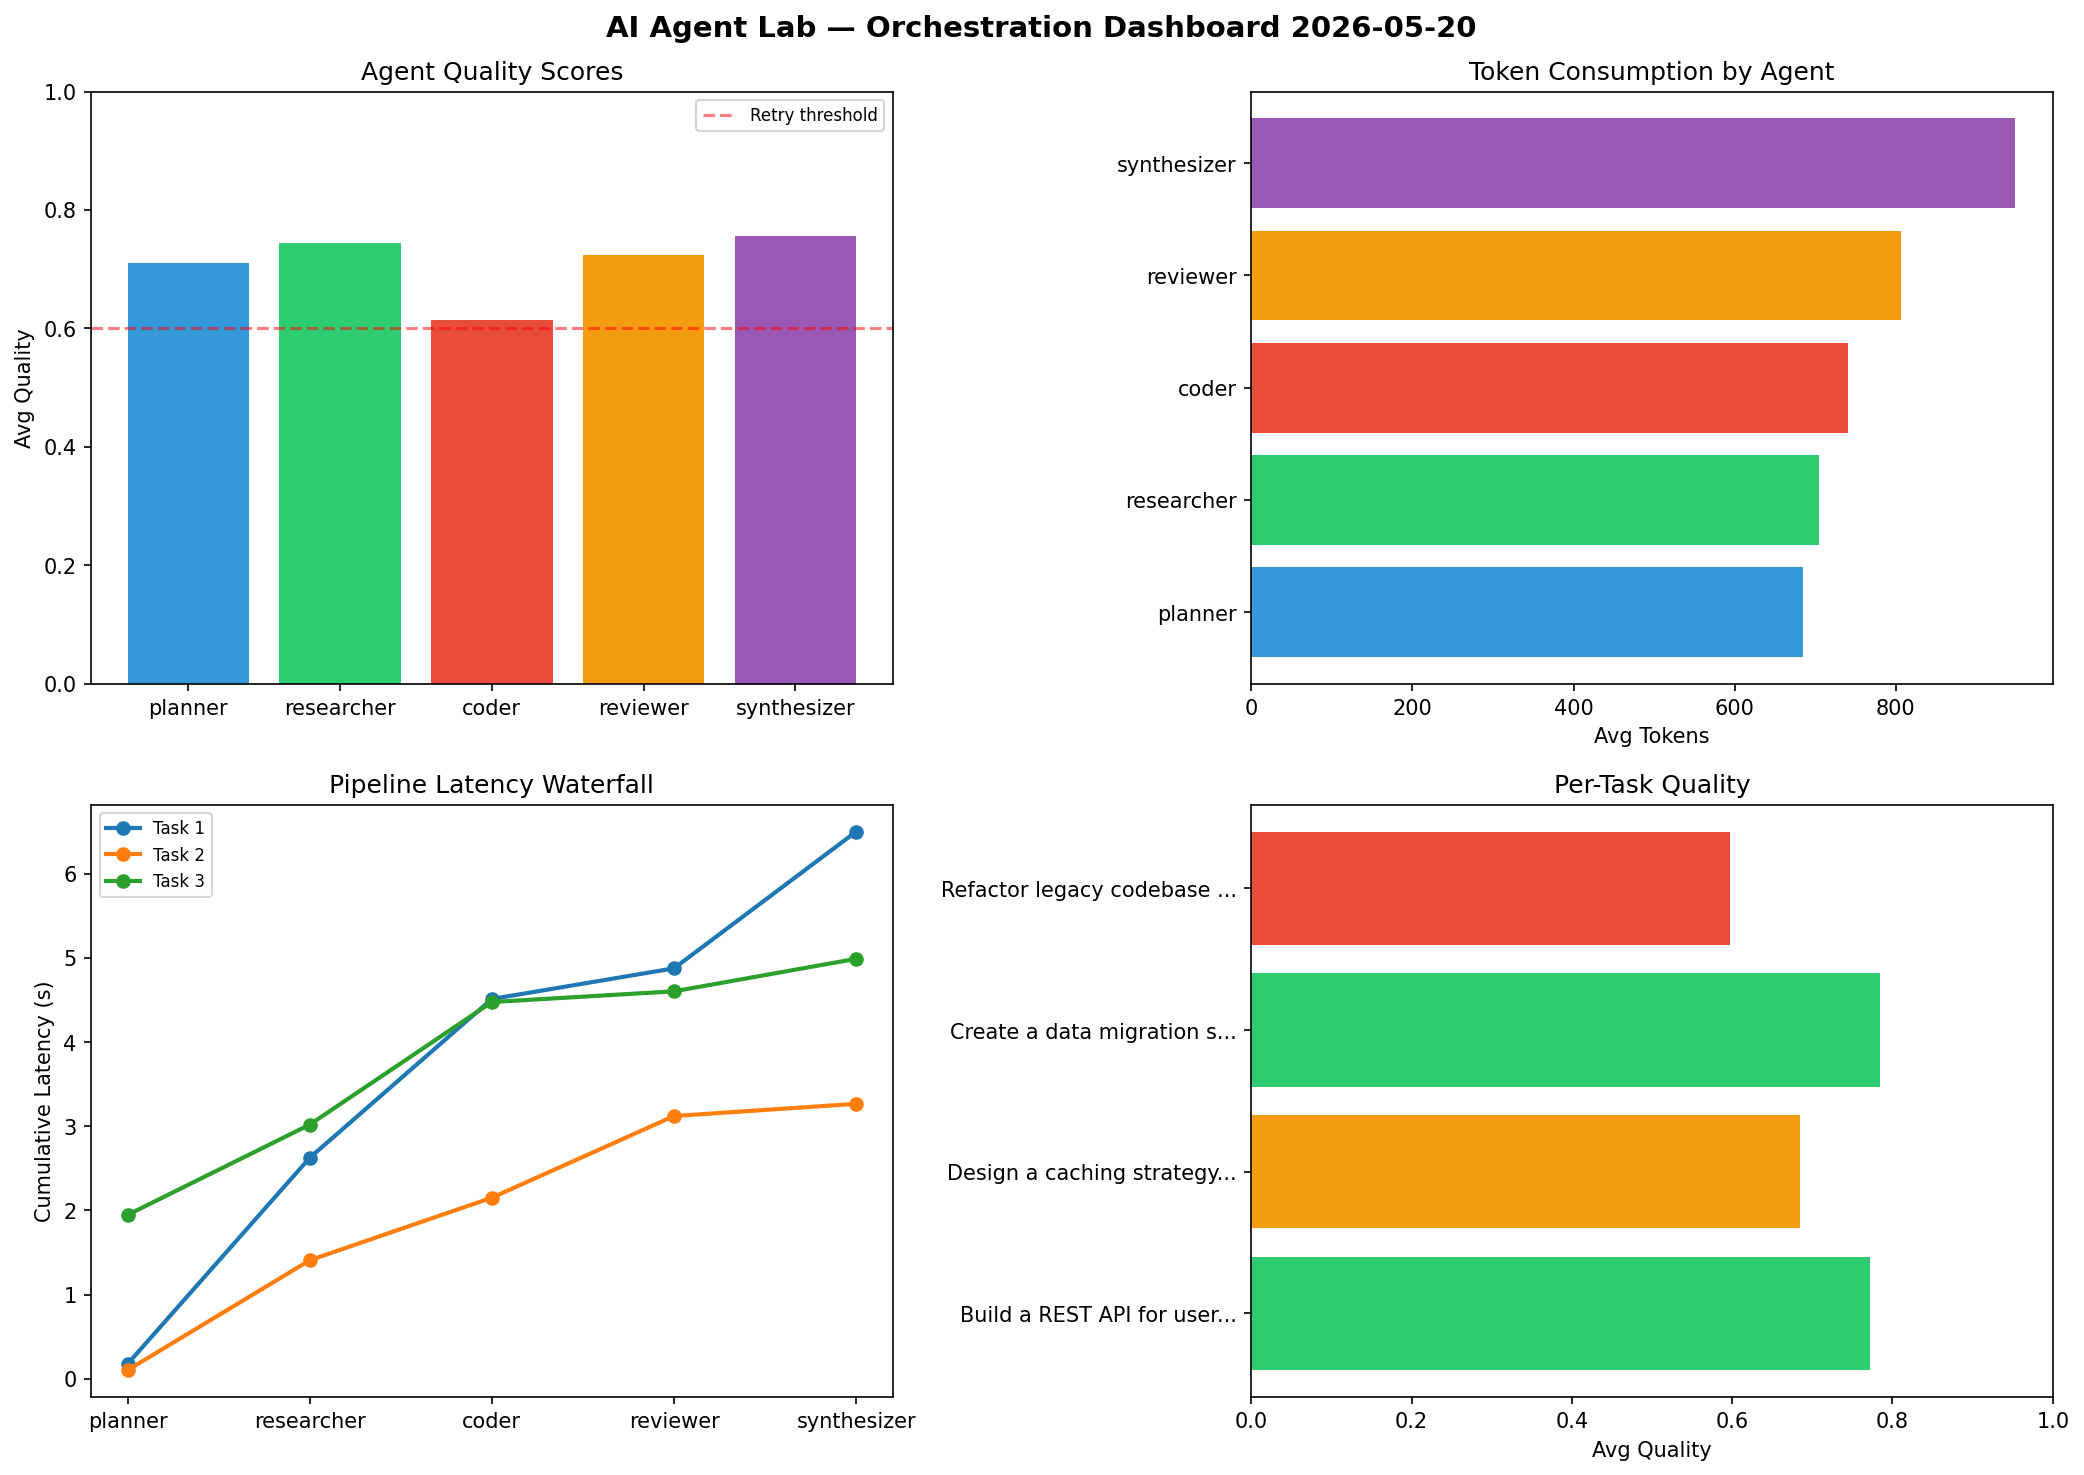
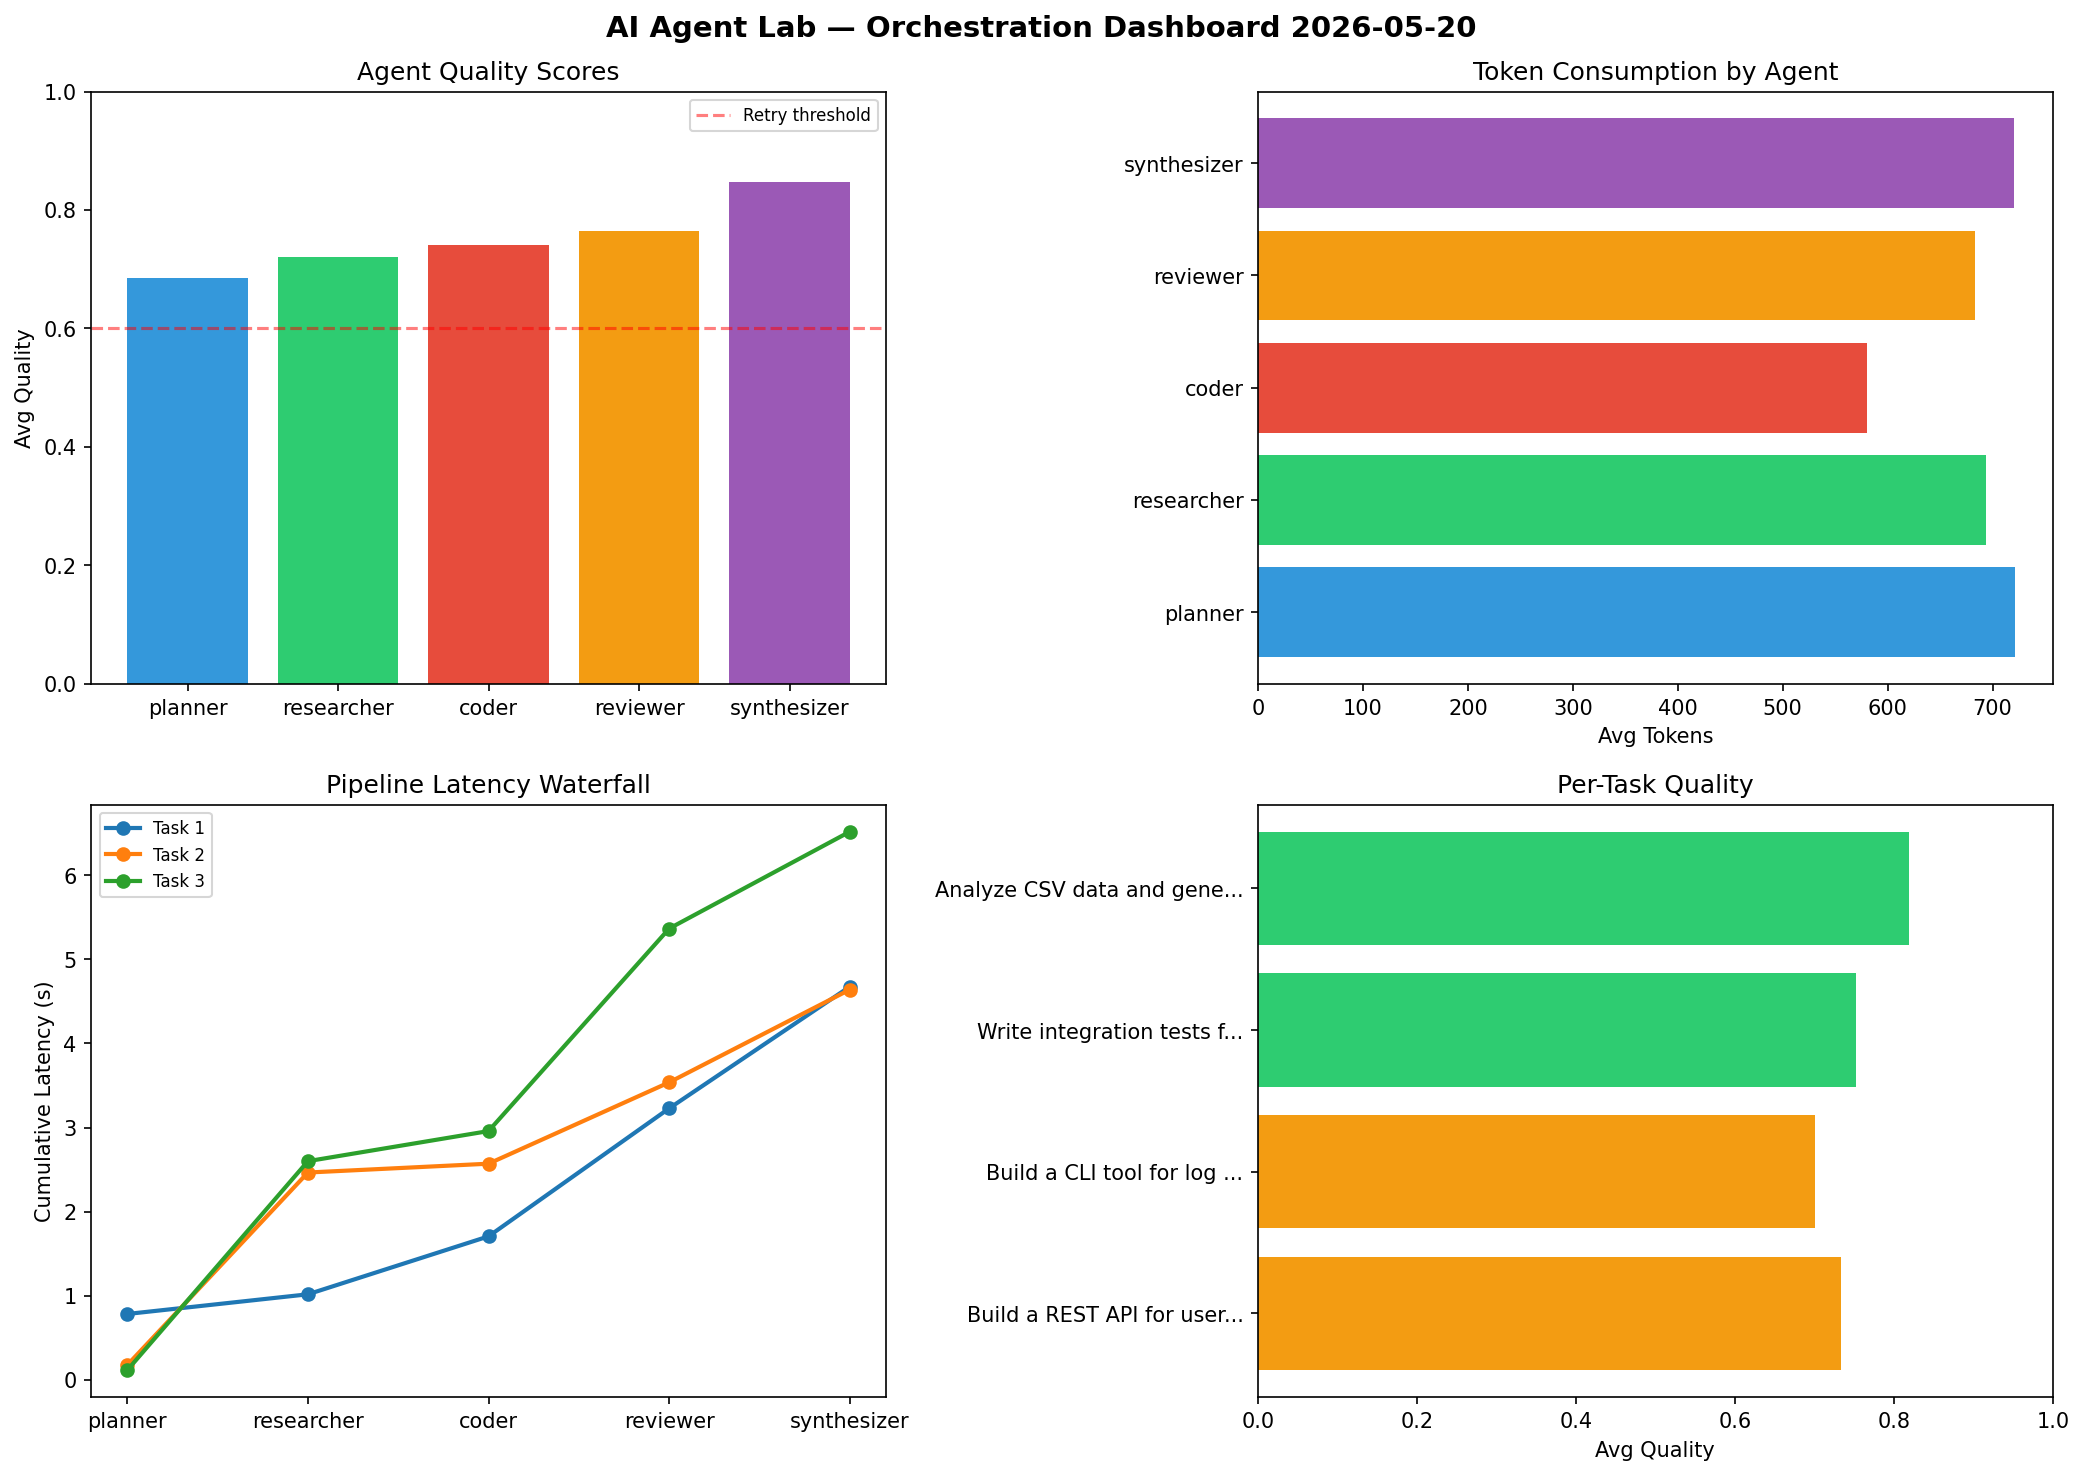
ai-agent-lab: orchestration run 2026-05-20T17:32

diff --git a/logs/2026-05-20.md b/logs/2026-05-20.md
@@ -1,6 +1,6 @@
 # AI Agent Lab — Orchestration Report 2026-05-20
 
-**Run ID:** `51959be056` | **Tasks:** 4 | **Avg Quality:** 0.71
+**Run ID:** `66f4f7919d` | **Tasks:** 4 | **Avg Quality:** 0.751
 
 ![Dashboard](2026-05-20_dashboard.png)
 
@@ -8,52 +8,52 @@
 
 | Metric | Value |
 |--------|-------|
-| avg_latency | 5.528 |
-| total_tokens | 15538 |
-| avg_quality | 0.71 |
+| avg_latency | 5.631 |
+| total_tokens | 13599 |
+| avg_quality | 0.751 |
 
 ## Delta vs Yesterday
 
 | Metric | Today | Yesterday | Change |
 |--------|-------|-----------|--------|
-| avg_latency | 5.528 | 5.99 | 📉 -7.7% |
-| total_tokens | 15538 | 14867 | 📈 4.5% |
-| avg_quality | 0.71 | 0.792 | 📉 -10.4% |
+| avg_latency | 5.631 | 5.99 | 📉 -6.0% |
+| total_tokens | 13599 | 14867 | 📉 -8.5% |
+| avg_quality | 0.751 | 0.792 | 📉 -5.2% |
 
 ## Pipeline Results
 
 ### Build a REST API for user authentication
 | Agent | Quality | Latency | Tokens | Status |
 |-------|---------|---------|--------|--------|
-| planner | 0.911 | 0.177s | 402 | success |
-| researcher | 0.73 | 2.448s | 1045 | success |
-| coder | 0.519 | 1.886s | 730 | needs_retry |
-| reviewer | 0.805 | 0.364s | 1003 | success |
-| synthesizer | 0.893 | 1.623s | 1033 | success |
+| planner | 0.605 | 0.783s | 1094 | success |
+| researcher | 0.647 | 0.234s | 587 | success |
+| coder | 0.54 | 0.689s | 991 | needs_retry |
+| reviewer | 0.992 | 1.522s | 1084 | success |
+| synthesizer | 0.882 | 1.447s | 667 | success |
 
-### Design a caching strategy for high-traffic endpoints
+### Build a CLI tool for log analysis
 | Agent | Quality | Latency | Tokens | Status |
 |-------|---------|---------|--------|--------|
-| planner | 0.562 | 0.103s | 870 | needs_retry |
-| researcher | 0.88 | 1.305s | 415 | success |
-| coder | 0.502 | 0.743s | 669 | needs_retry |
-| reviewer | 0.92 | 0.97s | 372 | success |
-| synthesizer | 0.563 | 0.145s | 871 | needs_retry |
+| planner | 0.713 | 0.176s | 866 | success |
+| researcher | 0.583 | 2.289s | 458 | needs_retry |
+| coder | 0.667 | 0.105s | 366 | success |
+| reviewer | 0.567 | 0.967s | 712 | needs_retry |
+| synthesizer | 0.976 | 1.103s | 499 | success |
 
-### Create a data migration script for schema v2
+### Write integration tests for payment processing module
 | Agent | Quality | Latency | Tokens | Status |
 |-------|---------|---------|--------|--------|
-| planner | 0.67 | 1.947s | 860 | success |
-| researcher | 0.855 | 1.072s | 1077 | success |
-| coder | 0.858 | 1.456s | 760 | success |
-| reviewer | 0.635 | 0.127s | 762 | success |
-| synthesizer | 0.906 | 0.386s | 797 | success |
+| planner | 0.712 | 0.115s | 565 | success |
+| researcher | 0.781 | 2.485s | 659 | success |
+| coder | 0.826 | 0.358s | 331 | success |
+| reviewer | 0.688 | 2.408s | 454 | success |
+| synthesizer | 0.757 | 1.152s | 883 | success |
 
-### Refactor legacy codebase to use dependency injection
+### Analyze CSV data and generate statistical summary
 | Agent | Quality | Latency | Tokens | Status |
 |-------|---------|---------|--------|--------|
-| planner | 0.701 | 1.478s | 607 | success |
-| researcher | 0.513 | 0.788s | 282 | needs_retry |
-| coder | 0.581 | 1.331s | 803 | needs_retry |
-| reviewer | 0.533 | 2.177s | 1091 | needs_retry |
-| synthesizer | 0.659 | 1.586s | 1089 | success |
+| planner | 0.708 | 0.44s | 360 | success |
+| researcher | 0.87 | 1.509s | 1072 | success |
+| coder | 0.933 | 1.659s | 635 | success |
+| reviewer | 0.809 | 1.322s | 482 | success |
+| synthesizer | 0.777 | 1.761s | 834 | success |
